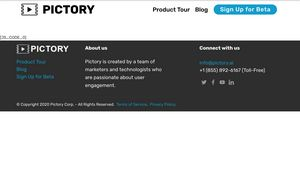
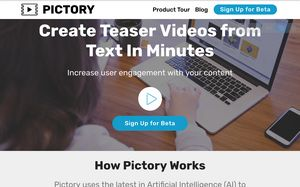
added a video
added a video

diff --git a/index.html b/index.html
@@ -80,26 +80,41 @@
     </nav>
 </section>
 
-<section class="engine"><a href="https://mobirise.info/m">free website design templates</a></section><section class="cid-rT90lU1D1A mbr-fullscreen mbr-parallax-background" id="header2-v">
+<section class="engine"><a href="https://mobirise.info/r">bootstrap template</a></section><section class="header8 cid-rXu9dRjvPx mbr-parallax-background" id="header8-3b">
 
     
 
-    <div class="mbr-overlay" style="opacity: 0.5; background-color: rgb(35, 35, 35);"></div>
+    <div class="mbr-overlay" style="opacity: 0.5; background-color: rgb(35, 35, 35);">
+    </div>
 
     <div class="container align-center">
         <div class="row justify-content-md-center">
             <div class="mbr-white col-md-10">
-                <h1 class="mbr-section-title mbr-bold pb-3 mbr-fonts-style display-1">Create Teaser Videos from Text In &nbsp;Minutes</h1>
-                
-                <p class="mbr-text pb-3 mbr-fonts-style display-5">Increase user engagement with your content</p>
-                <div class="mbr-section-btn"><a class="btn btn-md btn-secondary display-4" href="beta_signup.html">Sign Up for Beta</a></div>
+                <h1 class="mbr-section-title align-center py-2 mbr-bold mbr-fonts-style display-1">Create Teaser Videos from Text In  Minutes</h1>
+                <p class="mbr-text align-center py-2 mbr-fonts-style display-5">
+                        Increase user engagement with your content
+                </p>
+                <div class="mbr-media show-modal align-center py-2" data-modal=".modalWindow">
+                         <span class="mbr-iconfont mbri-play" style="color: rgb(20, 157, 204); fill: rgb(20, 157, 204);"></span>
+                </div>
+                <div class="mbr-section-btn text-center"><a class="btn btn-md btn-primary display-4" href="beta_signup.html">Sign Up for Beta</a></div>
             </div>
         </div>
     </div>
-    <div class="mbr-arrow hidden-sm-down" aria-hidden="true">
-        <a href="#next">
-            <i class="mbri-down mbr-iconfont"></i>
-        </a>
+    <div>
+        <div class="modalWindow" style="display: none;">
+            <div class="modalWindow-container">
+                <div class="modalWindow-video-container">
+                    <div class="modalWindow-video">
+                        <iframe width="100%" height="100%" frameborder="0" allowfullscreen="1" data-src="https://www.youtube.com/watch?v=GxzJCYacnqI"></iframe>
+                    </div>
+                    <a class="close" role="button" data-dismiss="modal">
+                        <span aria-hidden="true" class="mbri-close mbr-iconfont closeModal"></span>
+                        <span class="sr-only">Close</span>
+                    </a>
+                </div>
+            </div>
+        </div>
     </div>
 </section>
 
@@ -114,7 +129,7 @@
             <div class="col-md-10 align-center">
                 <h1 class="mbr-section-title mbr-bold pb-3 mbr-fonts-style display-2">How Pictory Works</h1>
                 
-                <p class="mbr-text pb-3 mbr-fonts-style display-5">Pictory uses the latest in natural language processing (NLP) and machine learning (ML) to empower non-technical users to create videos from text on-demand</p>
+                <p class="mbr-text pb-3 mbr-fonts-style display-5">Pictory uses the latest in Artificial Intelligence (AI) to empower non-technical users to create videos from text on-demand</p>
                 
             </div>
         </div>
@@ -385,10 +400,11 @@
   <script src="assets/smoothscroll/smooth-scroll.js"></script>
   <script src="assets/web/assets/cookies-alert-plugin/cookies-alert-core.js"></script>
   <script src="assets/web/assets/cookies-alert-plugin/cookies-alert-script.js"></script>
+  <script src="assets/parallax/jarallax.min.js"></script>
   <script src="assets/dropdown/js/nav-dropdown.js"></script>
   <script src="assets/dropdown/js/navbar-dropdown.js"></script>
   <script src="assets/touchswipe/jquery.touch-swipe.min.js"></script>
-  <script src="assets/parallax/jarallax.min.js"></script>
+  <script src="assets/playervimeo/vimeo_player.js"></script>
   <script src="assets/theme/js/script.js"></script>
   <script src="assets/formoid.min.js"></script>
   

diff --git a/beta_signup-old.html b/beta_signup-old.html
@@ -74,7 +74,7 @@
     </nav>
 </section>
 
-<section class="engine"><a href="https://mobirise.info/z">best css templates</a></section><section class="mbr-section form1 cid-rT9JGPLCGd" id="form1-19">
+<section class="engine"><a href="https://mobirise.info/i">website creation software</a></section><section class="mbr-section form1 cid-rT9JGPLCGd" id="form1-19">
 
     
 
@@ -93,7 +93,7 @@
         <div class="row justify-content-center">
             <div class="media-container-column col-lg-8" data-form-type="formoid">
                 <!---Formbuilder Form--->
-                <form action="https://mobirise.com/" method="POST" class="mbr-form form-with-styler" data-form-title="Mobirise Form"><input type="hidden" name="email" data-form-email="true" value="wWoGtJmzXrKUKO900aBrN5pcGivoTMWMU0Vc08PFsFEXoD4udxM9gw9W6p2XIFbmXkAugiMRLQqwRr5ZAwrO469FnjkfOQ55JGjyTvEw4Gi4qXw/p64fUC8y1fPLxDyV.Qz5dtW+ILb9n0jmrf2z0wZFWSPTSdQ5qWdgnYxY7kuwUCF0gGUb2yDvl2NC0WqP0zrZW1gn7cdnn3yJpsLHaOBcod2APJD1VHqVF13EPU9ARgeuZhF4WO4KBqbvTZZ3o">
+                <form action="https://mobirise.com/" method="POST" class="mbr-form form-with-styler" data-form-title="Mobirise Form"><input type="hidden" name="email" data-form-email="true" value="B4fBUoPh7lUNUZNey6vd36wF6KPmDnhMVxzziIEHnJGdTXLkY8+1iRVpvV0SFyYsEP6Z01Nmc8WC7lYZ9Cu24j5TQAhiX8AncX+mSIJ6nRQt+0mwHc6idoVIMN06oiVY.ykYlIV5HhcXyjKL5tOsTouGZbnxATu/cIa3ptY0fQnk6dzYkxS7ZYD0YWR5ZFe69GgQgbg3GKeSp8Ck/vXcUucXp/ZOIJSg4thDLEXjSuy9ZQdPOB/+Z5ffYCs1WbpHC">
                     <div class="row">
                         <div hidden="hidden" data-form-alert="" class="alert alert-success col-12">Thanks for signing up for Pictory Beta. Our team will get back to you with the Beta details shortly.</div>
                         <div hidden="hidden" data-form-alert-danger="" class="alert alert-danger col-12">

diff --git a/assets/mobirise/css/mbr-additional.css b/assets/mobirise/css/mbr-additional.css
@@ -711,8 +711,64 @@ iframe.lazy-placeholder,
 section.lazy-placeholder:after {
   opacity: 0.3;
 }
-.cid-rT90lU1D1A {
-  background-image: url("../../../assets/images/mbr-5.jpg");
+.cid-rXu9dRjvPx {
+  padding-top: 75px;
+  padding-bottom: 75px;
+  background-image: url("../../../assets/images/mbr-1920x1338.jpg");
+}
+.cid-rXu9dRjvPx .mbr-media span {
+  font-size: 48px;
+  cursor: pointer;
+  background-color: #ffffff;
+  border-radius: 50%;
+  width: 6rem;
+  height: 6rem;
+  line-height: 6rem;
+  position: relative;
+  display: inline-block;
+  transition: all 0.25s;
+  color: #353535;
+}
+.cid-rXu9dRjvPx .mbr-media span.mbri-play:before {
+  position: absolute;
+  left: 50%;
+  -webkit-transform: translateX(-35%);
+  -moz-transform: translateX(-35%);
+  -ms-transform: translateX(-35%);
+  -o-transform: translateX(-35%);
+  transform: translateX(-35%);
+}
+.cid-rXu9dRjvPx .modalWindow {
+  position: fixed;
+  z-index: 5000;
+  left: 0;
+  top: 0;
+  background-color: rgba(61, 61, 61, 0.65);
+  width: 100%;
+  height: 100%;
+}
+.cid-rXu9dRjvPx .modalWindow .modalWindow-container {
+  display: table-cell;
+  vertical-align: middle;
+}
+.cid-rXu9dRjvPx .modalWindow .modalWindow-video {
+  height: calc(44.9943757vw);
+  width: 80vw;
+  margin: 0 auto;
+}
+.cid-rXu9dRjvPx a.close {
+  position: absolute;
+  right: 4vw;
+  top: 4vh;
+  color: #ffffff;
+  z-index: 5000000;
+  font-size: 37px;
+  background: #000;
+  padding: 20px;
+  border-radius: 50%;
+}
+.cid-rXu9dRjvPx a.close:hover {
+  color: #ffffff;
 }
 .cid-rBBbFxshwd {
   padding-top: 30px;

diff --git a/teaser-videos.html b/teaser-videos.html
@@ -80,11 +80,11 @@
     </nav>
 </section>
 
-<section class="engine"><a href="https://mobirise.info/n">simple site templates</a></section><section class="header15 cid-rX115iC5Df mbr-parallax-background" id="header15-38">
+<section class="engine"><a href="https://mobirise.info/d">free website maker</a></section><section class="header15 cid-rX115iC5Df mbr-parallax-background" id="header15-38">
 
     
 
-    <div class="mbr-overlay" style="opacity: 0.8; background-color: rgb(7, 59, 76);"></div>
+    <div class="mbr-overlay" style="opacity: 0.7; background-color: rgb(7, 59, 76);"></div>
 
     <div class="container align-right">
         <div class="row">

diff --git a/beta_signup.html b/beta_signup.html
@@ -77,7 +77,7 @@
     </nav>
 </section>
 
-<section class="engine"><a href="https://mobirise.info/o">free portfolio site templates</a></section><section class="extForm cid-rWVfPSBtco" id="extForm17-36">
+<section class="engine"><a href="https://mobirise.info/k">how to develop free website</a></section><section class="extForm cid-rWVfPSBtco" id="extForm17-36">
     
     <div class="mbr-overlay"></div>
     <div class="container-fluid">

diff --git a/text-to-video.html b/text-to-video.html
@@ -80,7 +80,7 @@
     </nav>
 </section>
 
-<section class="engine"><a href="https://mobirise.info/a">online website builder</a></section><section class="header15 cid-rWn8y7fz51 mbr-parallax-background" id="header15-34">
+<section class="engine"><a href="https://mobirise.info/u">bootstrap responsive templates</a></section><section class="header15 cid-rWn8y7fz51 mbr-parallax-background" id="header15-34">
 
     
 

diff --git a/product_tour.html b/product_tour.html
@@ -79,7 +79,7 @@
     </nav>
 </section>
 
-<section class="engine"><a href="https://mobirise.info/f">simple website maker</a></section><section class="header8 cid-rTq8NLtqrd mbr-parallax-background" id="header8-1h">
+<section class="engine"><a href="https://mobirise.info/j">website templates</a></section><section class="header8 cid-rTq8NLtqrd mbr-parallax-background" id="header8-1h">
 
     
 

diff --git a/policy.html b/policy.html
@@ -74,7 +74,7 @@
     </nav>
 </section>
 
-<section class="engine"><a href="https://mobirise.info/s">free bootstrap themes</a></section><div id="custom-html-2c"><!-- Type valid HTML here -->
+<section class="engine"><a href="https://mobirise.info/g">how to build your own site for free</a></section><div id="custom-html-2c"><!-- Type valid HTML here -->
 
 <div>
 <h1>Privacy policy</h1>

diff --git a/page2.html b/page2.html
@@ -74,7 +74,7 @@
     </nav>
 </section>
 
-<section class="engine"><a href="https://mobirise.info/j">website templates</a></section><section class="mbr-section content5 cid-rSuH1kklVr" id="content5-j">
+<section class="engine"><a href="https://mobirise.info/o">free portfolio web templates</a></section><section class="mbr-section content5 cid-rSuH1kklVr" id="content5-j">
 
     
 

diff --git a/terms.html b/terms.html
@@ -74,7 +74,7 @@
     </nav>
 </section>
 
-<section class="engine"><a href="https://mobirise.info/r">free bootstrap template</a></section><div id="custom-html-29"><!-- Type valid HTML here -->
+<section class="engine"><a href="https://mobirise.info/l">free website templates</a></section><div id="custom-html-29"><!-- Type valid HTML here -->
 
 <div>
 <h1>Terms and conditions</h1>

diff --git a/thanks.html b/thanks.html
@@ -78,7 +78,7 @@
     </nav>
 </section>
 
-<section class="engine"><a href="https://mobirise.info">Mobirise</a></section><section class="header1 cid-rW9X1MRnss" id="header16-2s">
+<section class="engine"><a href="https://mobirise.info/s">bootstrap theme</a></section><section class="header1 cid-rW9X1MRnss" id="header16-2s">
 
     
 
